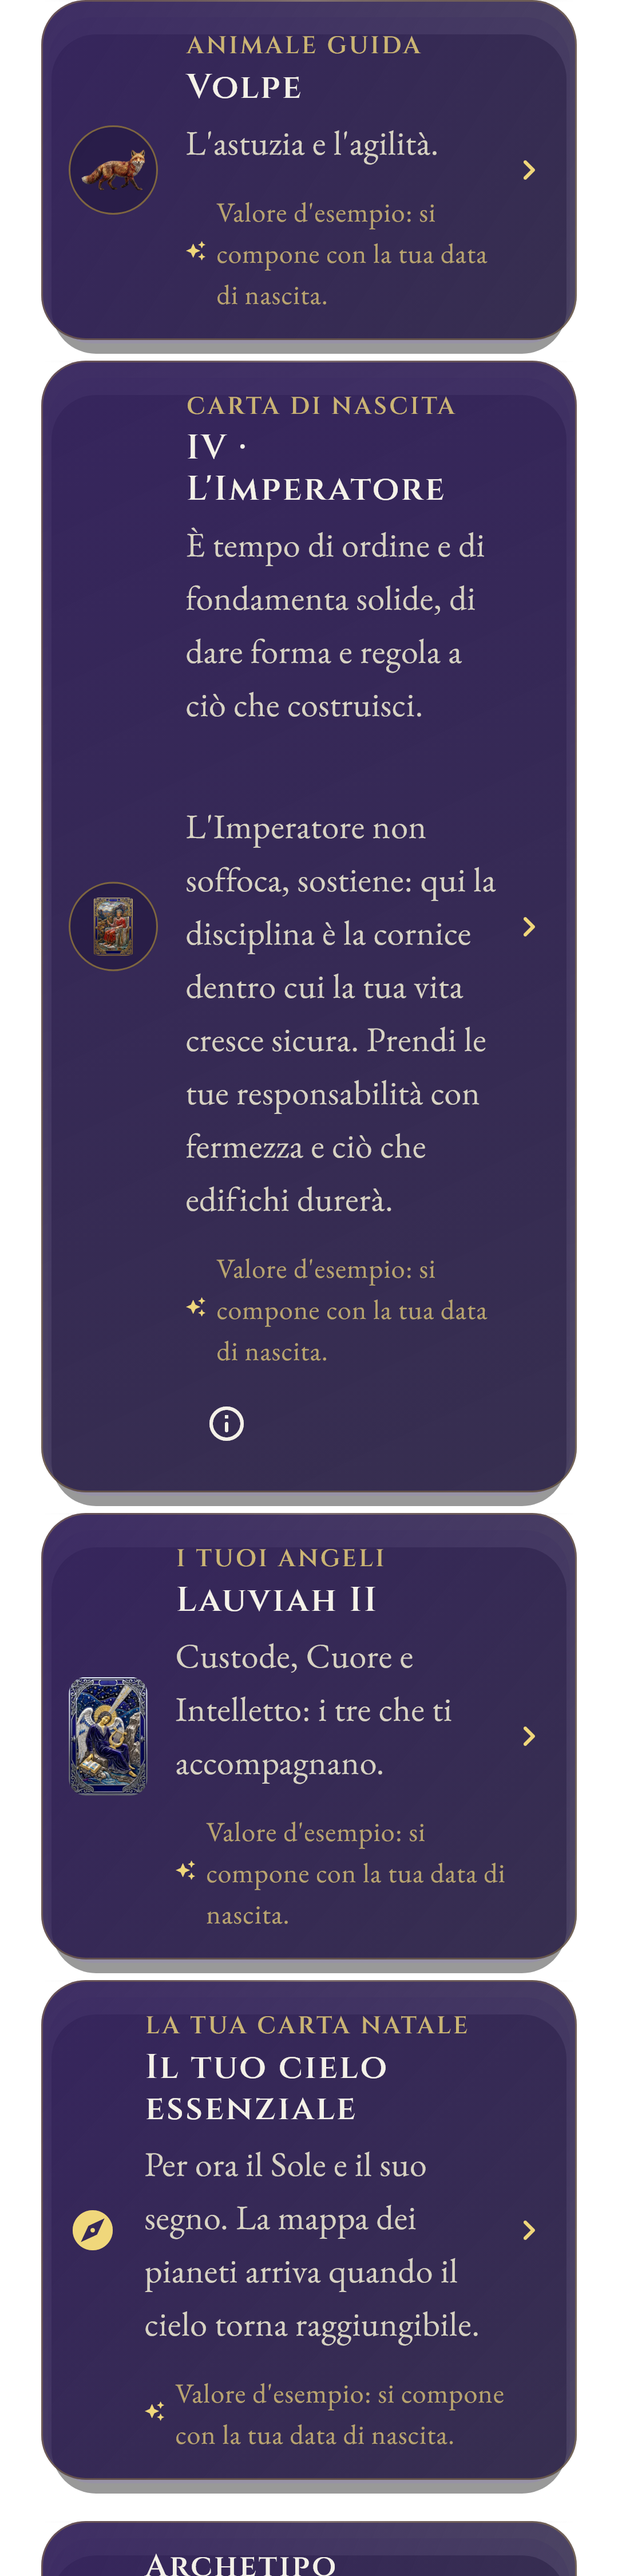
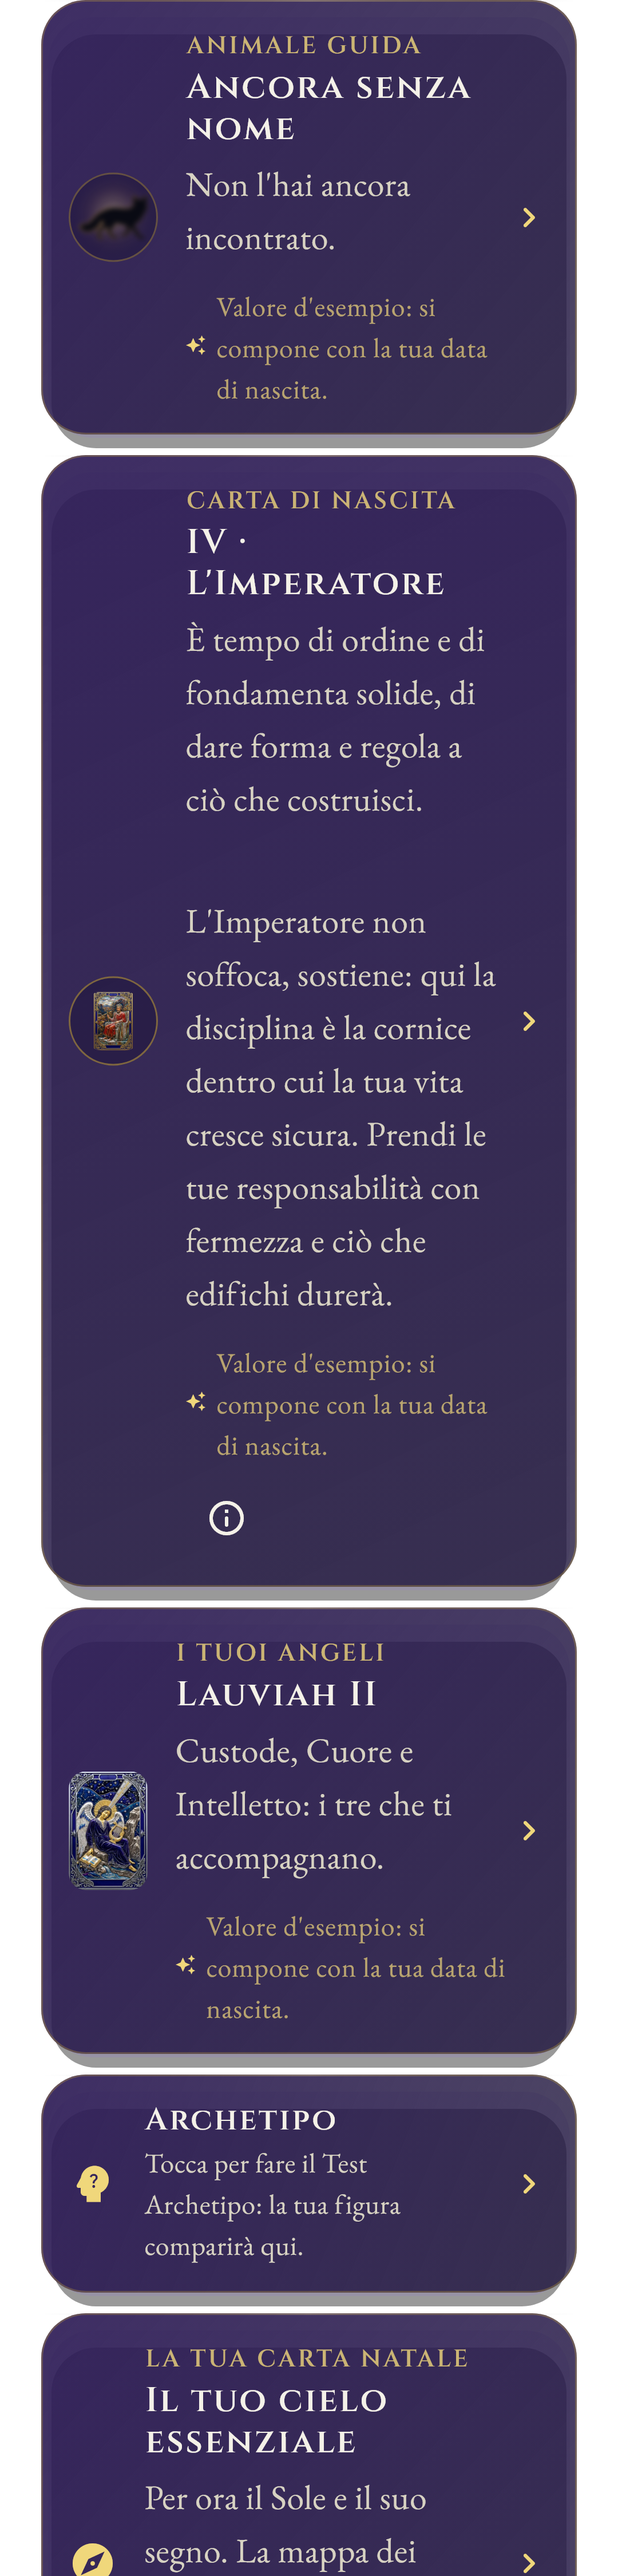
DG: le anteprime dell animale partono da un diario compiuto
La lettura dell animale non si apre piu prima delle quattro discese, e cinque
catture la montavano da un telefono senza Viaggio: quattro cadevano cercando
pulsanti che la soglia non mostra.

Le anteprime mostrano l app di chi la usa, non il suo primo minuto: e la stessa
legge per cui il Cammino, li dentro, parte gia alla generazione due.

Due immagini cambiano davvero. Il Passaporto adesso dice "Ancora senza nome"
con la sagoma velata, ed e la voce DG.03 che si vede per la prima volta in
anteprima. La lettura dell animale resta quella.

Changed region(s): [[0.0611, 0.0311, 0.9472, 1.0], [0.1528, 0.3422, 0.2139, 0.4356], [0.1222, 0.0311, 0.2444, 0.0933]]

diff --git a/test/screenshot_capture_test.dart b/test/screenshot_capture_test.dart
@@ -2438,6 +2438,28 @@ void main() {
     await step(tester);
   }
 
+  /// **LE QUATTRO DISCESE GIA' FATTE.** Ordine DG voce 02, 12 settembre 2026.
+  ///
+  /// Dal 12 settembre la lettura dell'animale **non si apre prima delle quattro
+  /// discese**: e' la rivelazione intera, nome e totem a colori e corpus, e il
+  /// fondatore ha chiesto che arrivi dal Viaggio.
+  ///
+  /// **Le anteprime mostrano l'app di chi la usa**, non il suo primo minuto: e'
+  /// la stessa legge per cui qui sopra il Cammino parte gia' alla generazione
+  /// due. Chi guarda l'anteprima della lettura dell'animale vuole vedere la
+  /// lettura, non la soglia che la protegge.
+  List<String> ilDiarioCompiuto() => [
+        for (var i = 0; i < 4; i++)
+          jsonEncode({
+            'quando': DateTime(2026, 9, 1 + i, 10).toIso8601String(),
+            'domanda': '',
+            'tema': '',
+            'pezzi': <String>[],
+            'animale': 'Lupo',
+            'nitidezza': 1.0,
+          }),
+      ];
+
   void seedArchetipoCaligo() {
     final esito = ArchetypeEsito(
       quando: DateTime(2026, 7, 22, 10),
@@ -2446,6 +2468,7 @@ void main() {
     );
     SharedPreferences.setMockInitialValues({
       'archetipo.storico': [jsonEncode(esito.toJson())],
+      'viaggio.diario': ilDiarioCompiuto(),
     });
   }
 
@@ -2453,7 +2476,11 @@ void main() {
     silenceSensors();
     await loadFonts();
     // Senza Test Archetipo, il popup evocativo compare all'ingresso.
-    SharedPreferences.setMockInitialValues({});
+    // **Ma col Viaggio gia' compiuto**, ordine DG voce 02: sotto il popup c'e'
+    // la lettura, non la soglia che la protegge.
+    SharedPreferences.setMockInitialValues({
+      'viaggio.diario': ilDiarioCompiuto(),
+    });
     final rootKey = await mountAnimal(
         tester, const GuideAnimalScreen(userSign: Zodiac.cancer),
         size: const Size(360, 900));
